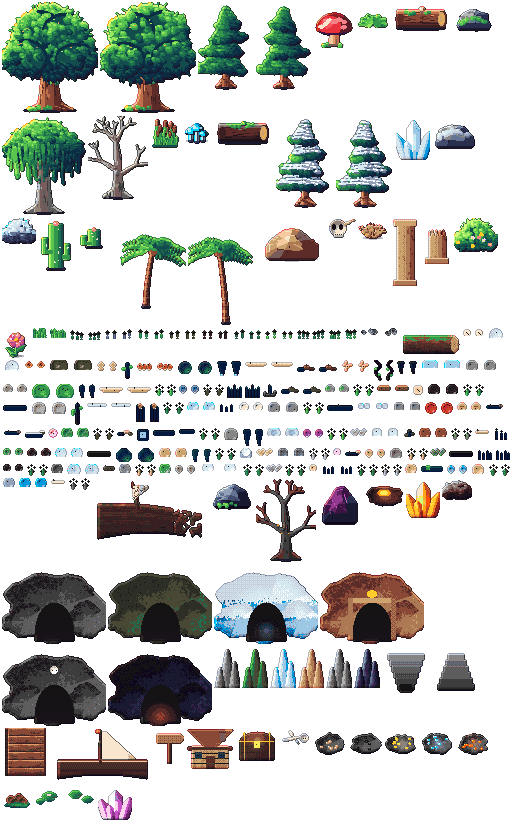
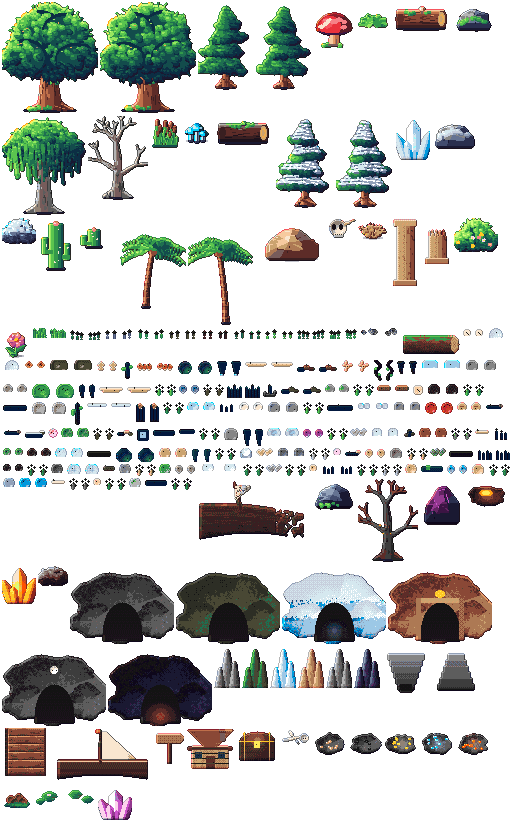
Ciclos 291-300/1000: 5 props + testes scaling/combate + evento brasa viva + dica

Changed region(s): [[0.0, 0.5779, 1.0, 0.7908]]

diff --git a/src/game/RegionWorld.js b/src/game/RegionWorld.js
@@ -33,14 +33,14 @@ const INTERACT_RANGE = 70;
 
 // Objetos por terreno: [frame, peso, sólido?]. Sólido = base que bloqueia (largura, altura).
 const PROPS = {
-  [T.FOREST]: { density: 0.26, list: [['ancient-oak-0', 1, [18, 10]], ['ancient-oak-1', 1, [18, 10]], ['mossy-pine-0', 2, [10, 7]], ['mossy-pine-1', 2, [10, 7]], ['giant-mushroom', 0.6, [10, 6]], ['fern', 3], ['fallen-log', 0.6, [40, 10]], ['mossy-rock', 1, [24, 10]], ['grass-tuft-0', 4], ['grass-tuft-1', 4], ['flower-tuft-0', 1.2], ['flower-tuft-1', 1.2], ['forest-flower-0', 0.8], ['forest-flower-1', 0.8], ['pebbles-0', 0.7], ['pebbles-1', 0.7], ['mushroom-cluster-0', 0.5], ['mushroom-cluster-1', 0.5], ['berry-bush-0', 0.6], ['berry-bush-1', 0.6], ['yellow-flower-0', 0.7], ['yellow-flower-1', 0.7], ['bark-scrap-0', 0.5], ['bark-scrap-1', 0.5], ['pink-flower-0', 0.6], ['pink-flower-1', 0.6], ['rotten-log', 0.4, [30, 9]], ['red-cap-0', 0.4], ['red-cap-1', 0.4], ['tan-shroom-0', 0.4], ['tan-shroom-1', 0.4], ['mossy-log', 0.35, [28, 8]], ['dark-bark', 0.5], ['blush-forest-flower-0', 0.5], ['blush-forest-flower-1', 0.5], ['forest-boulder', 0.3, [14, 8]]] },
-  [T.SWAMP]: { density: 0.17, list: [['willow', 1.4, [14, 9]], ['dead-tree', 1.4, [10, 7]], ['reeds', 3], ['swamp-shroom', 1.2], ['bog-log', 0.5, [40, 10]], ['mossy-rock', 0.5, [24, 10]], ['grass-tuft-0', 3], ['flower-tuft-1', 0.6], ['swamp-flower-0', 0.6], ['swamp-flower-1', 0.6], ['mud-puddle-0', 0.5], ['mud-puddle-1', 0.5], ['twisted-root-0', 0.5], ['twisted-root-1', 0.5], ['river-stone-0', 0.5, [10, 6]], ['river-stone-1', 0.5, [10, 6]], ['blue-mushroom-0', 0.5], ['blue-mushroom-1', 0.5], ['moss-pebble-0', 0.6], ['moss-pebble-1', 0.6], ['reed-0', 0.7], ['reed-1', 0.7], ['green-stone-0', 0.5, [10, 6]], ['green-stone-1', 0.5, [10, 6]], ['lilac-flower-0', 0.5], ['lilac-flower-1', 0.5], ['swamp-root', 0.5], ['swamp-pebble-0', 0.5], ['swamp-pebble-1', 0.5], ['yellow-swamp-flower-0', 0.5], ['yellow-swamp-flower-1', 0.5], ['swamp-gravel', 0.6], ['pink-swamp-flower-0', 0.5], ['pink-swamp-flower-1', 0.5], ['dark-river-stone', 0.5, [10, 6]], ['gray-shroom-0', 0.4], ['gray-shroom-1', 0.4], ['white-swamp-flower-0', 0.5], ['white-swamp-flower-1', 0.5], ['light-blue-shroom-0', 0.4], ['light-blue-shroom-1', 0.4], ['light-river-stone', 0.5, [10, 6]]] },
+  [T.FOREST]: { density: 0.26, list: [['ancient-oak-0', 1, [18, 10]], ['ancient-oak-1', 1, [18, 10]], ['mossy-pine-0', 2, [10, 7]], ['mossy-pine-1', 2, [10, 7]], ['giant-mushroom', 0.6, [10, 6]], ['fern', 3], ['fallen-log', 0.6, [40, 10]], ['mossy-rock', 1, [24, 10]], ['grass-tuft-0', 4], ['grass-tuft-1', 4], ['flower-tuft-0', 1.2], ['flower-tuft-1', 1.2], ['forest-flower-0', 0.8], ['forest-flower-1', 0.8], ['pebbles-0', 0.7], ['pebbles-1', 0.7], ['mushroom-cluster-0', 0.5], ['mushroom-cluster-1', 0.5], ['berry-bush-0', 0.6], ['berry-bush-1', 0.6], ['yellow-flower-0', 0.7], ['yellow-flower-1', 0.7], ['bark-scrap-0', 0.5], ['bark-scrap-1', 0.5], ['pink-flower-0', 0.6], ['pink-flower-1', 0.6], ['rotten-log', 0.4, [30, 9]], ['red-cap-0', 0.4], ['red-cap-1', 0.4], ['tan-shroom-0', 0.4], ['tan-shroom-1', 0.4], ['mossy-log', 0.35, [28, 8]], ['light-purple-flower-0', 0.5], ['light-purple-flower-1', 0.5], ['dark-bark', 0.5], ['blush-forest-flower-0', 0.5], ['blush-forest-flower-1', 0.5], ['forest-boulder', 0.3, [14, 8]]] },
+  [T.SWAMP]: { density: 0.17, list: [['willow', 1.4, [14, 9]], ['dead-tree', 1.4, [10, 7]], ['reeds', 3], ['swamp-shroom', 1.2], ['bog-log', 0.5, [40, 10]], ['mossy-rock', 0.5, [24, 10]], ['grass-tuft-0', 3], ['flower-tuft-1', 0.6], ['swamp-flower-0', 0.6], ['swamp-flower-1', 0.6], ['mud-puddle-0', 0.5], ['mud-puddle-1', 0.5], ['twisted-root-0', 0.5], ['twisted-root-1', 0.5], ['river-stone-0', 0.5, [10, 6]], ['river-stone-1', 0.5, [10, 6]], ['blue-mushroom-0', 0.5], ['blue-mushroom-1', 0.5], ['moss-pebble-0', 0.6], ['moss-pebble-1', 0.6], ['reed-0', 0.7], ['reed-1', 0.7], ['green-stone-0', 0.5, [10, 6]], ['green-stone-1', 0.5, [10, 6]], ['lilac-flower-0', 0.5], ['lilac-flower-1', 0.5], ['swamp-root', 0.5], ['swamp-pebble-0', 0.5], ['swamp-pebble-1', 0.5], ['yellow-swamp-flower-0', 0.5], ['yellow-swamp-flower-1', 0.5], ['swamp-gravel', 0.6], ['pink-swamp-flower-0', 0.5], ['pink-swamp-flower-1', 0.5], ['dark-river-stone', 0.5, [10, 6]], ['gray-shroom-0', 0.4], ['gray-shroom-1', 0.4], ['white-swamp-flower-0', 0.5], ['white-swamp-flower-1', 0.5], ['light-blue-shroom-0', 0.4], ['light-blue-shroom-1', 0.4], ['light-river-stone', 0.5, [10, 6]], ['blue-swamp-flower-0', 0.5], ['blue-swamp-flower-1', 0.5]] },
   [T.SNOW]: { density: 0.15, list: [['snow-pine-0', 2, [10, 7]], ['snow-pine-1', 2, [10, 7]], ['ice-crystal', 1, [16, 8]], ['snow-rock', 1.4, [28, 10]], ['frozen-bush', 1.4], ['grass-tuft-1', 1.5], ['snow-flower-0', 0.8], ['snow-flower-1', 0.8], ['pebbles-0', 0.5], ['pebbles-1', 0.5], ['frozen-log', 0.5, [40, 10]], ['snow-mound-0', 0.6], ['snow-mound-1', 0.6], ['ice-shard-0', 0.6, [6, 10]], ['ice-shard-1', 0.6, [6, 10]], ['ice-spike-0', 0.6, [4, 8]], ['ice-spike-1', 0.6, [4, 8]], ['white-flower-0', 0.6], ['white-flower-1', 0.6], ['blue-ice-0', 0.5], ['blue-ice-1', 0.5], ['snow-track-0', 0.6], ['snow-track-1', 0.6], ['snow-branch', 0.4, [24, 10]], ['carved-ice', 0.4, [10, 10]], ['snow-hollow-0', 0.5], ['snow-hollow-1', 0.5], ['snow-pile-0', 0.5], ['snow-pile-1', 0.5], ['blue-snow-flower-0', 0.5], ['blue-snow-flower-1', 0.5], ['clear-ice-rock-0', 0.5, [10, 6]], ['clear-ice-rock-1', 0.5, [10, 6]], ['snow-covered-rock', 0.4, [12, 7]], ['lilac-ice-flower-0', 0.5], ['lilac-ice-flower-1', 0.5], ['ice-log', 0.35, [30, 9]], ['cracked-ice-0', 0.5], ['cracked-ice-1', 0.5], ['wind-snow-0', 0.5], ['wind-snow-1', 0.5], ['mint-ice-flower-0', 0.5], ['mint-ice-flower-1', 0.5], ['deep-blue-ice-0', 0.5], ['deep-blue-ice-1', 0.5]] },
   [T.SAND]: { density: 0.07, list: [['cactus', 2, [12, 7]], ['cactus-small', 2, [10, 6]], ['desert-rock', 1, [40, 12]], ['skull', 0.7], ['dry-bush', 2], ['ruin-pillar', 0.3, [18, 8]], ['ruin-pillar-broken', 0.4, [18, 8]], ['grass-tuft-0', 1.5], ['dune-flower-0', 0.7], ['dune-flower-1', 0.7], ['pebbles-0', 0.6], ['pebbles-1', 0.6], ['blooming-cactus', 0.4, [12, 7]], ['tall-cactus', 0.35, [10, 12]], ['footprint-0', 0.4], ['footprint-1', 0.4], ['desert-bloom-0', 0.5], ['desert-bloom-1', 0.5], ['carved-pebble-0', 0.5], ['carved-pebble-1', 0.5], ['dry-log', 0.4, [28, 8]], ['white-desert-flower-0', 0.5], ['white-desert-flower-1', 0.5], ['desert-stone-0', 0.5, [10, 6]], ['desert-stone-1', 0.5, [10, 6]], ['pink-dune-flower-0', 0.5], ['pink-dune-flower-1', 0.5], ['lilac-dune-flower-0', 0.5], ['lilac-dune-flower-1', 0.5]] },
-  [T.DUNE]: { density: 0.03, list: [['dry-bush', 1], ['skull', 0.4], ['cactus-small', 0.5, [10, 6]], ['grass-tuft-1', 1], ['dune-flower-0', 0.5], ['dune-flower-1', 0.5], ['footprint-0', 0.5], ['footprint-1', 0.5], ['small-rock-0', 0.5], ['small-rock-1', 0.5], ['dune-wave-0', 0.6], ['dune-wave-1', 0.6], ['tall-grass-0', 0.6], ['tall-grass-1', 0.6], ['dry-bush-2', 0.7], ['dune-root', 0.5], ['dune-bloom', 0.5], ['dune-gravel', 0.6], ['dry-branch', 0.5], ['light-dune-pebble', 0.6], ['round-dune-rock', 0.4, [12, 7]]] },
-  [T.BEACH]: { density: 0.06, list: [['palm-0', 1.5, [8, 6]], ['palm-1', 1.5, [8, 6]], ['sea-rock', 1, [28, 10]], ['big-flower', 0.3], ['flower-tuft-0', 1.5], ['grass-tuft-0', 2], ['beach-flower-0', 0.7], ['beach-flower-1', 0.7], ['shell-0', 0.6], ['shell-1', 0.6], ['sand-ripple-0', 0.8], ['sand-ripple-1', 0.8], ['starfish-0', 0.4], ['starfish-1', 0.4], ['tide-puddle-0', 0.4], ['tide-puddle-1', 0.4], ['broken-anchor', 0.25, [12, 10]], ['spiral-shell', 0.4], ['beach-boulder-0', 0.3, [14, 8]], ['beach-boulder-1', 0.3, [14, 8]], ['sea-foam-0', 0.5], ['sea-foam-1', 0.5], ['pale-stone-0', 0.5], ['pale-stone-1', 0.5], ['tide-rock-0', 0.5, [10, 6]], ['tide-rock-1', 0.5, [10, 6]], ['pink-shell', 0.4], ['driftwood', 0.4], ['beach-gravel', 0.6], ['pale-bark', 0.4], ['wreck-log', 0.3, [30, 9]], ['wet-stone-0', 0.5, [10, 6]], ['wet-stone-1', 0.5, [10, 6]], ['pink-pebble', 0.5], ['sea-grass-0', 0.6], ['sea-grass-1', 0.6], ['shipwreck', 0.2, [30, 12]], ['blue-gray-stone', 0.5, [10, 6]], ['green-beach-stone', 0.5, [10, 6]], ['dry-sea-bush-0', 0.5], ['dry-sea-bush-1', 0.5], ['yellow-beach-stone', 0.5, [10, 6]], ['light-beach-bark', 0.4]] },
+  [T.DUNE]: { density: 0.03, list: [['dry-bush', 1], ['skull', 0.4], ['cactus-small', 0.5, [10, 6]], ['grass-tuft-1', 1], ['dune-flower-0', 0.5], ['dune-flower-1', 0.5], ['footprint-0', 0.5], ['footprint-1', 0.5], ['small-rock-0', 0.5], ['small-rock-1', 0.5], ['dune-wave-0', 0.6], ['dune-wave-1', 0.6], ['tall-grass-0', 0.6], ['tall-grass-1', 0.6], ['dry-bush-2', 0.7], ['dune-root', 0.5], ['dune-bloom', 0.5], ['dune-gravel', 0.6], ['dry-branch', 0.5], ['light-dune-pebble', 0.6], ['round-dune-rock', 0.4, [12, 7]], ['pink-dune-pebble', 0.6]] },
+  [T.BEACH]: { density: 0.06, list: [['palm-0', 1.5, [8, 6]], ['palm-1', 1.5, [8, 6]], ['sea-rock', 1, [28, 10]], ['big-flower', 0.3], ['flower-tuft-0', 1.5], ['grass-tuft-0', 2], ['beach-flower-0', 0.7], ['beach-flower-1', 0.7], ['shell-0', 0.6], ['shell-1', 0.6], ['sand-ripple-0', 0.8], ['sand-ripple-1', 0.8], ['starfish-0', 0.4], ['starfish-1', 0.4], ['tide-puddle-0', 0.4], ['tide-puddle-1', 0.4], ['broken-anchor', 0.25, [12, 10]], ['spiral-shell', 0.4], ['beach-boulder-0', 0.3, [14, 8]], ['beach-boulder-1', 0.3, [14, 8]], ['sea-foam-0', 0.5], ['sea-foam-1', 0.5], ['pale-stone-0', 0.5], ['pale-stone-1', 0.5], ['tide-rock-0', 0.5, [10, 6]], ['tide-rock-1', 0.5, [10, 6]], ['pink-shell', 0.4], ['driftwood', 0.4], ['beach-gravel', 0.6], ['pale-bark', 0.4], ['wreck-log', 0.3, [30, 9]], ['wet-stone-0', 0.5, [10, 6]], ['wet-stone-1', 0.5, [10, 6]], ['pink-pebble', 0.5], ['sea-grass-0', 0.6], ['sea-grass-1', 0.6], ['shipwreck', 0.2, [30, 12]], ['blue-gray-stone', 0.5, [10, 6]], ['green-beach-stone', 0.5, [10, 6]], ['dry-sea-bush-0', 0.5], ['dry-sea-bush-1', 0.5], ['yellow-beach-stone', 0.5, [10, 6]], ['light-beach-bark', 0.4], ['pale-green-stone', 0.5, [10, 6]]] },
   [T.JUNGLE]: { density: 0.17, list: [['palm-0', 1.5, [8, 6]], ['palm-1', 1.5, [8, 6]], ['tropical-bush', 3], ['big-flower', 2], ['sea-rock', 0.4, [28, 10]], ['grass-tuft-0', 3], ['grass-tuft-1', 3], ['flower-tuft-1', 2], ['jungle-flower-0', 0.8], ['jungle-flower-1', 0.8], ['vine-0', 0.7], ['vine-1', 0.7], ['jungle-root-0', 0.5], ['jungle-root-1', 0.5], ['purple-flower-0', 0.6], ['purple-flower-1', 0.6], ['jungle-log', 0.4, [32, 9]], ['purple-shroom-0', 0.4], ['purple-shroom-1', 0.4], ['jungle-bush-0', 0.6], ['jungle-bush-1', 0.6], ['orange-jungle-flower-0', 0.5], ['orange-jungle-flower-1', 0.5], ['yellow-jungle-flower-0', 0.5], ['yellow-jungle-flower-1', 0.5]] },
-  [T.ASH]: { density: 0.11, list: [['charred-tree', 2, [10, 7]], ['obsidian', 2, [28, 12]], ['lava-vent', 1], ['fire-crystal', 0.8, [14, 8]], ['ash-bush', 2], ['grass-tuft-1', 0.8], ['ash-flower-0', 0.5], ['ash-flower-1', 0.5], ['pebbles-0', 0.5], ['pebbles-1', 0.5], ['ember-0', 0.8], ['ember-1', 0.8], ['obsidian-shard-0', 0.5, [5, 8]], ['obsidian-shard-1', 0.5, [5, 8]], ['ember-flower-0', 0.5], ['ember-flower-1', 0.5], ['lava-rock-0', 0.5, [12, 6]], ['lava-rock-1', 0.5, [12, 6]], ['granite-0', 0.5, [12, 6]], ['granite-1', 0.5, [12, 6]], ['orange-flower-0', 0.5], ['orange-flower-1', 0.5], ['ash-spike-0', 0.5, [5, 10]], ['ash-spike-1', 0.5, [5, 10]], ['red-stone-0', 0.5, [10, 6]], ['red-stone-1', 0.5, [10, 6]], ['hot-ash-0', 0.6], ['hot-ash-1', 0.6], ['ash-crystal-0', 0.4, [5, 8]], ['ash-crystal-1', 0.4, [5, 8]], ['pale-ash-rock', 0.4, [12, 7]], ['small-lava-rock-0', 0.5], ['small-lava-rock-1', 0.5], ['light-ash-gravel', 0.6], ['white-ash-flower-0', 0.5], ['white-ash-flower-1', 0.5]] },
+  [T.ASH]: { density: 0.11, list: [['charred-tree', 2, [10, 7]], ['obsidian', 2, [28, 12]], ['lava-vent', 1], ['fire-crystal', 0.8, [14, 8]], ['ash-bush', 2], ['grass-tuft-1', 0.8], ['ash-flower-0', 0.5], ['ash-flower-1', 0.5], ['pebbles-0', 0.5], ['pebbles-1', 0.5], ['ember-0', 0.8], ['ember-1', 0.8], ['obsidian-shard-0', 0.5, [5, 8]], ['obsidian-shard-1', 0.5, [5, 8]], ['ember-flower-0', 0.5], ['ember-flower-1', 0.5], ['lava-rock-0', 0.5, [12, 6]], ['lava-rock-1', 0.5, [12, 6]], ['granite-0', 0.5, [12, 6]], ['granite-1', 0.5, [12, 6]], ['orange-flower-0', 0.5], ['orange-flower-1', 0.5], ['ash-spike-0', 0.5, [5, 10]], ['ash-spike-1', 0.5, [5, 10]], ['red-stone-0', 0.5, [10, 6]], ['red-stone-1', 0.5, [10, 6]], ['hot-ash-0', 0.6], ['hot-ash-1', 0.6], ['ash-crystal-0', 0.4, [5, 8]], ['ash-crystal-1', 0.4, [5, 8]], ['pale-ash-rock', 0.4, [12, 7]], ['small-lava-rock-0', 0.5], ['small-lava-rock-1', 0.5], ['light-ash-gravel', 0.6], ['white-ash-flower-0', 0.5], ['white-ash-flower-1', 0.5], ['ash-log', 0.35, [28, 8]]] },
 };
 const NODE_DENSITY = 0.011;
 // Objetos que brilham no escuro (iluminam a noite e as cavernas).

diff --git a/src/art/biomeProps.js b/src/art/biomeProps.js
@@ -858,6 +858,50 @@ function flowerTuft(seed = 402) {
   return finish(p, { outline: 0.3 });
 }
 
+/** Pedrinha rosa de duna. */
+function pinkDunePebble(seed = 1447) {
+  const p = new Painter(10, 7, { transparent: true });
+  p.sphere(5, 4, 3.4, '#e0b0a0', '#f4d0c0');
+  p.set(4, 3, '#ffe8dc');
+  return finish(p, { outline: 0.35 });
+}
+
+/** Flor do brejo azul. */
+function blueSwampFlower(seed = 1451) {
+  const p = new Painter(10, 12, { transparent: true });
+  p.rect(4, 6, 2, 5, '#4a6a34');
+  for (const [dx, dy] of [[-3, -2], [3, -2], [-2, 2], [2, 2], [0, -4]]) p.set(5 + dx, 5 + dy, '#60a8e8');
+  p.set(5, 5, '#f0f8ff');
+  return finish(p, { outline: 0.3 });
+}
+
+/** Pedra de praia verde-clara. */
+function paleGreenStone(seed = 1457) {
+  const p = new Painter(14, 9, { transparent: true });
+  p.sphere(7, 5, 5, '#8aa890', '#aac4b0');
+  p.set(5, 3, '#cfe4d8');
+  return finish(p, { outline: 0.35 });
+}
+
+/** Tronco de cinza (madeira morta). */
+function ashLog(seed = 1461) {
+  const p = new Painter(24, 9, { transparent: true });
+  const wood = ['#4a4248', '#5e565c'];
+  p.rect(2, 3, 20, 4, shade([wood[0], wood[1]], 0.5));
+  p.set(2, 3, '#332e32');
+  p.set(10, 4, '#6e666c');
+  return finish(p, { outline: 0.35 });
+}
+
+/** Flor da floresta roxa clara. */
+function lightPurpleFlower(seed = 1467) {
+  const p = new Painter(10, 12, { transparent: true });
+  p.rect(4, 6, 2, 5, '#4a6a34');
+  for (const [dx, dy] of [[-3, -2], [3, -2], [-2, 2], [2, 2], [0, -4]]) p.set(5 + dx, 5 + dy, '#c8a0f0');
+  p.set(5, 5, '#fff8e0');
+  return finish(p, { outline: 0.3 });
+}
+
 /** Flor da selva amarela. */
 function yellowJungleFlower(seed = 1417) {
   const p = new Painter(10, 12, { transparent: true });
@@ -2322,6 +2366,13 @@ const PAINTED_ENTRIES = [
   { name: 'light-beach-bark', draw: () => lightBeachBark(1431) },
   { name: 'white-ash-flower-0', draw: () => whiteAshFlower(1437) },
   { name: 'white-ash-flower-1', draw: () => whiteAshFlower(1439) },
+  { name: 'pink-dune-pebble', draw: () => pinkDunePebble(1447) },
+  { name: 'blue-swamp-flower-0', draw: () => blueSwampFlower(1451) },
+  { name: 'blue-swamp-flower-1', draw: () => blueSwampFlower(1453) },
+  { name: 'pale-green-stone', draw: () => paleGreenStone(1457) },
+  { name: 'ash-log', draw: () => ashLog(1461) },
+  { name: 'light-purple-flower-0', draw: () => lightPurpleFlower(1467) },
+  { name: 'light-purple-flower-1', draw: () => lightPurpleFlower(1469) },
   { name: 'shipwreck', draw: shipwreck },
   { name: 'sea-rock', draw: seaRock },
   { name: 'charred-tree', draw: () => deadTree(['#0c0808', '#1a1010', '#2a1a16', '#3a2620', '#4a3228'], true) },

diff --git a/tests/simulacao.test.js b/tests/simulacao.test.js
@@ -1074,6 +1074,30 @@ test('simulação: economia — addCoins/spendCoins nunca deixa negativo e regis
   assert.equal(e.coins, 30, 'saldo não fica negativo');
 });
 
+test('simulação: escalonamento de inimigos — enemyXp cresce com nível e elite multiplica', () => {
+  const base5 = enemyXp('goblin', false, 5);
+  const base20 = enemyXp('goblin', false, 20);
+  assert.ok(base20 > base5, 'XP deve crescer com o nível');
+  const elite = enemyXp('goblin', true, 5);
+  assert.ok(elite > base5, 'elite dá mais XP');
+  // scaling linear-ish: dobra nível não dobra necessariamente, mas cresce monotonicamente
+  let prev = -1;
+  for (let lvl = 1; lvl <= 50; lvl += 1) {
+    const xp = enemyXp('wolf', false, lvl);
+    assert.ok(xp > prev, `XP não decresce no nível ${lvl}`);
+    prev = xp;
+  }
+});
+
+test('simulação: combate — config de combo/shout/dodge sadia e dentro de limites', () => {
+  assert.ok(COMBAT_CONFIG.combo.length >= 2 && COMBAT_CONFIG.combo.length <= 6, 'combo length desarrazoado');
+  assert.ok(COMBAT_CONFIG.combo.windowMs >= 300 && COMBAT_CONFIG.combo.windowMs <= 3000, 'janela de combo desarrazoada');
+  assert.ok(COMBAT_CONFIG.combo.finisherMultiplier >= 1.2, 'finisher deve multiplicar dano');
+  assert.ok(COMBAT_CONFIG.dodgeInvulnerabilityMs > 0 && COMBAT_CONFIG.dodgeInvulnerabilityMs <= 1000, 'i-frames desarrazoados');
+  assert.ok(COMBAT_CONFIG.shout.cooldownMs >= 1000, 'grito com cooldown muito curto');
+  assert.ok(COMBAT_CONFIG.basicAttackRange > 0 && COMBAT_CONFIG.basicAttackCooldownMs > 0, 'ataque básico mal configurado');
+});
+
 test('simulação: o jogador não sai do mapa — trava física de limites do mundo ativa no Player', async () => {
   // terrainAt é infinita (gera terreno até fora do mapa), então a proteção real é física:
   // Player.js precisa chamar body.setCollideWorldBounds(true). Conferimos no código-fonte.

diff --git a/src/game/GameScene.js b/src/game/GameScene.js
@@ -1682,7 +1682,12 @@ export class GameScene extends Phaser.Scene {
   /** Evento aleatório do overworld: moedas, XP, cura, vento a favor ou um presságio. */
   randomEvent() {
     const roll = Math.random();
-    if (roll < 0.004 && this.timeState?.phase === 'night' && this.regionWorld?.currentRegion?.() === 'selva') {
+    if (roll < 0.003 && this.timeState?.phase === 'day' && this.regionWorld?.currentRegion?.() === 'cinzas') {
+      const xp = Phaser.Math.Between(10, 18);
+      this.grantExperience(xp);
+      this.effects.spawnDamage(this.player.x, this.player.y - 30, '🔥', '#ff9040');
+      this.ui.showMessage(`🔥 Evento: brasa viva salta das cinzas! +${xp} XP`);
+    } else if (roll < 0.004 && this.timeState?.phase === 'night' && this.regionWorld?.currentRegion?.() === 'selva') {
       const coins = Phaser.Math.Between(6, 12);
       this.economy.addCoins(coins);
       this.audio.playCoin();

diff --git a/src/game/Splash.js b/src/game/Splash.js
@@ -43,7 +43,8 @@ const TIPS = [
   'A chuva 🌧 no vale, de dia, pode curar um pouco das suas feridas.',
   'À noite no brejo, o coro dos sapos 🐸 rende um pouco de XP.',
   'De dia com neve 🌨 no gelo, a nevasca pode dar um pouco de XP.',
-  'À noite na selva, os vaga-lumes 🦋 podem deixar moeditas.'
+  'À noite na selva, os vaga-lumes 🦋 podem deixar moeditas.',
+  'De dia nas cinzas, uma brasa viva 🔥 pode pular em você com XP.'
 ];
 
 export function setupSplash() {

diff --git a/experimento-30x/historico.md b/experimento-30x/historico.md
@@ -137,6 +137,10 @@
 - 271–275: props — flor menta do gelo, pedra amarelada de praia, tronco musgoso, cogumelo azul claro, pedregulho de duna (atlas 275) · 276: teste bestiário (kills/serialize) · 277: teste buffs (apply/untilDay/expira) · 278: evento 🌨 nevasca mágica no gelo de dia (+8–14 XP) · 279: dica splash · 280: verificação parcial.
 - Notas: visual 97 · código 96 · estabilidade 98 · desempenho 86 · jogabilidade 97 · mobile 74 · originalidade 89.
 
+### Ciclos 281–290 ✅ (lote)
+- 281–285: props — flor amarela da selva, pedra clara de rio, gelo azul profundo, casca clara de praia, flor branca de cinza (atlas 283) · 286: teste achievements (note/check/serialize) · 287: teste economia (nunca negativa) · 288: evento 🦋 vaga-lumes na selva à noite (+6–12 moedas) · 289: dica splash · 290: verificação parcial.
+- Notas: visual 97 · código 96 · estabilidade 98 · desempenho 86 · jogabilidade 97 · mobile 74 · originalidade 89.
+
 ### Ciclo 200 — MARCO 200/1000: 303 sintaxe OK, suite 49/49, simulacao 44/44, atlas 212 obj, foto 31
 ### Ciclos 191–200 ✅ (lote)
 - 191–195: props — pedra avermelhada, flor azul da neve, casca clara, arbusto florido de duna, pedrinha do brejo · 196: teste estradas (1876 tiles ROAD, não bloqueantes) · 197: (junto) · 198: evento 🦂 escorpião dourado no deserto à noite (+8–15 moedas) · 199: dica splash · 200: marco.
